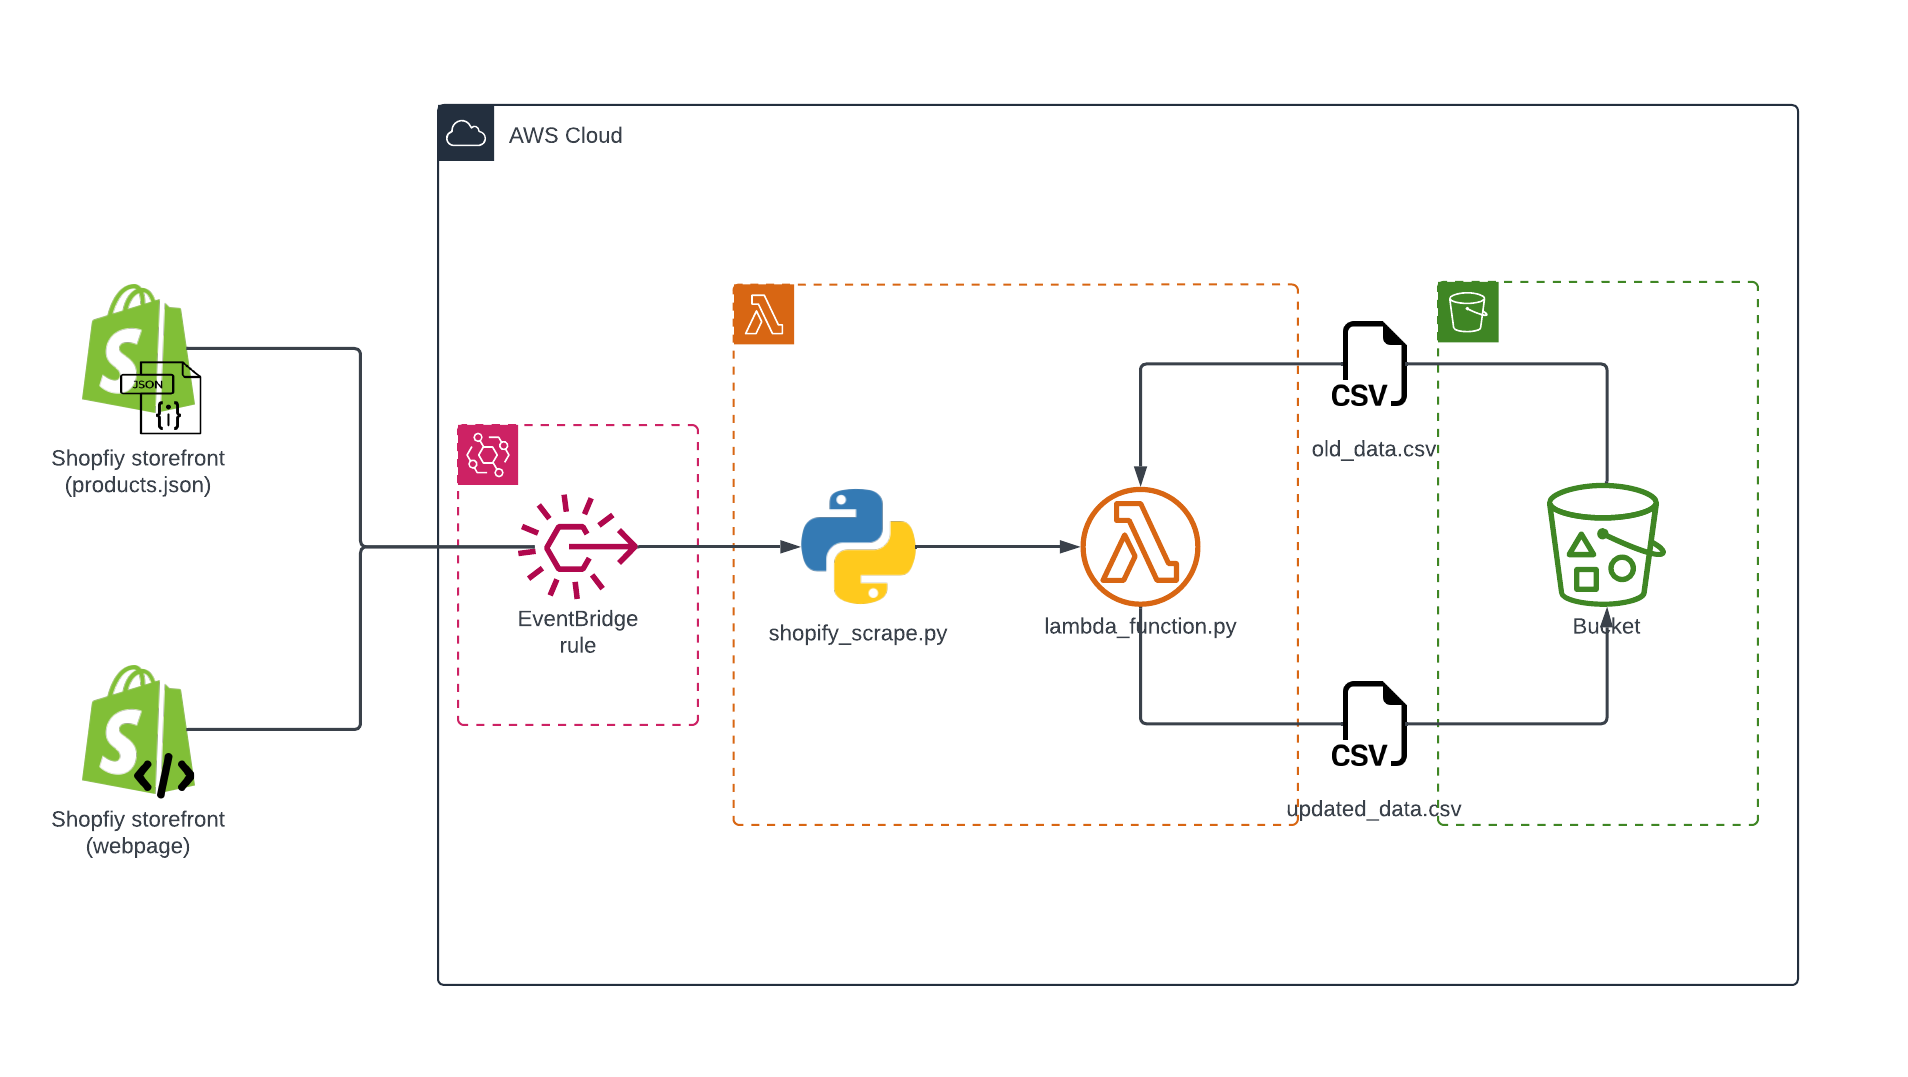
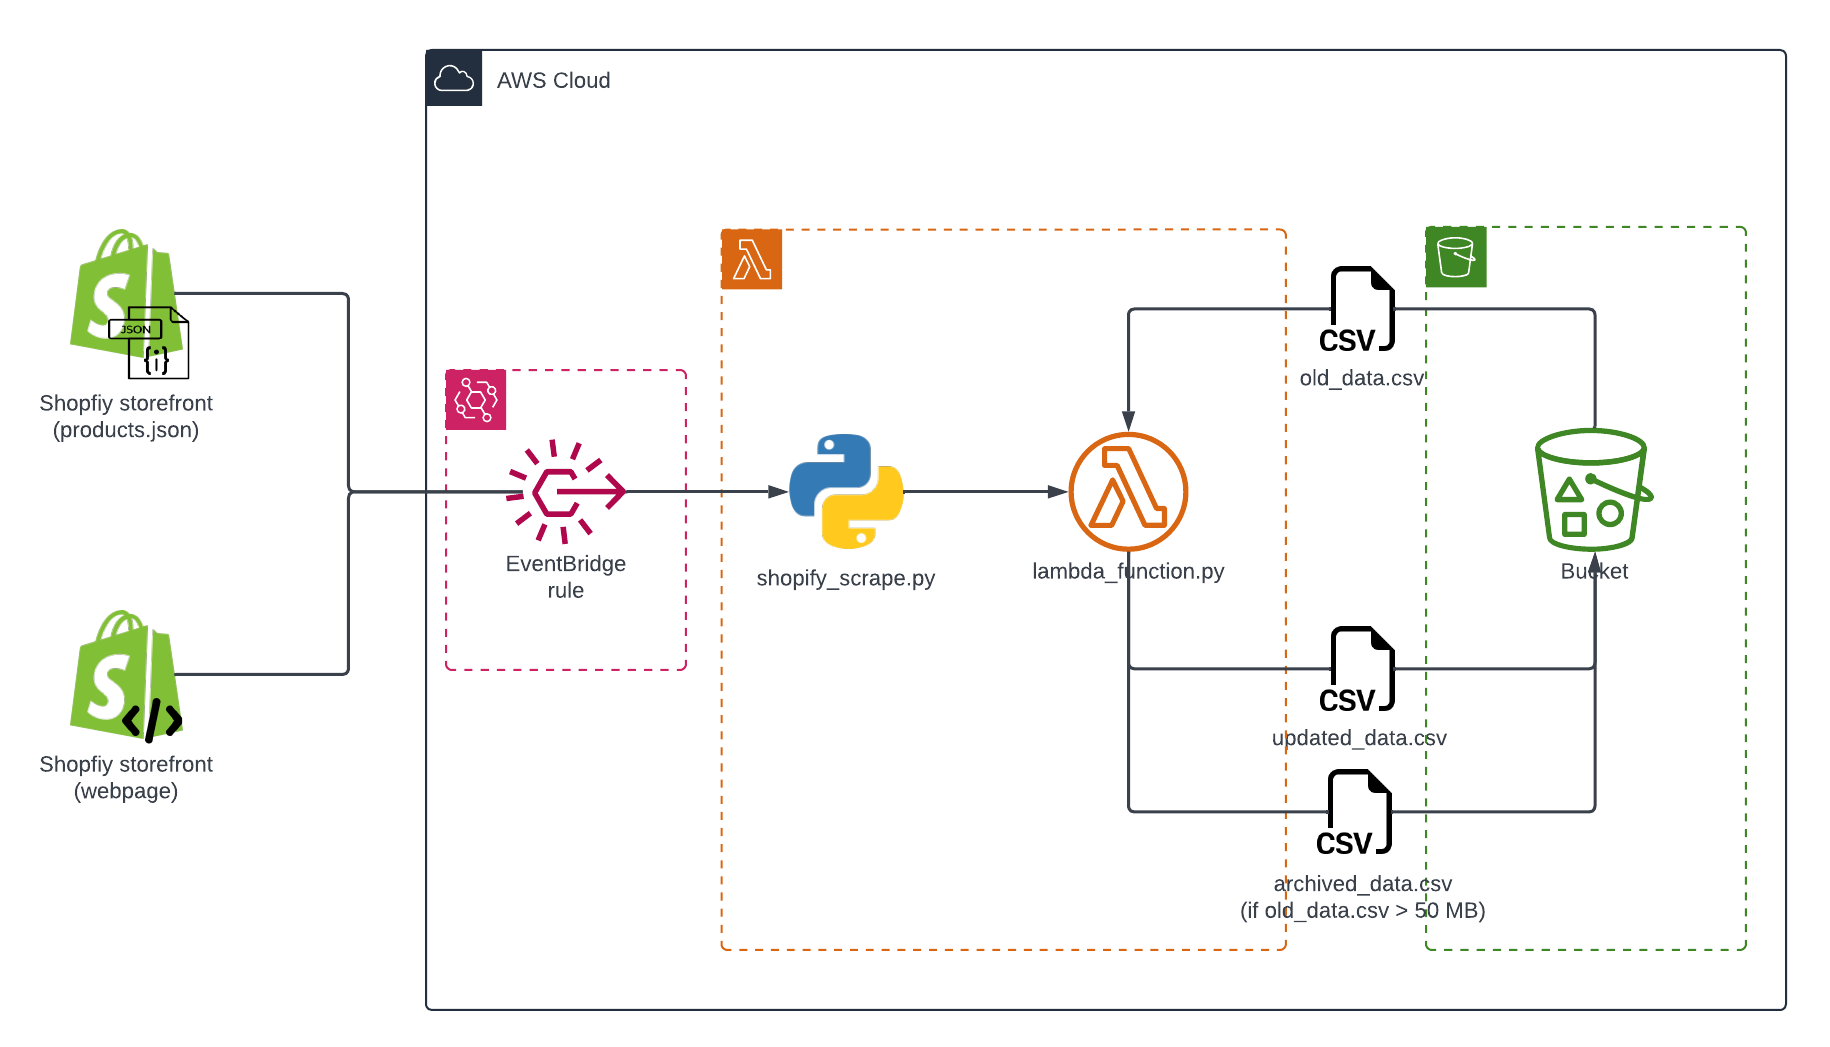
added auto-archiving logic

diff --git a/src/lambda_function.py b/src/lambda_function.py
@@ -25,13 +25,34 @@ def lambda_handler(event, context):
         aws_secret_access_key=access_secret_key,
         config=Config(signature_version='s3v4')
     )
-
+    
     old_csv = s3_client.get_object(Bucket=bucket_name, Key=s3_file_name)
     old_csv_data = old_csv['Body'].read().decode('utf-8')
-    
     old_df = pd.read_csv(StringIO(old_csv_data))
     
-    combined_df = pd.concat([old_df, new_df], ignore_index=True)
+    size_check = old_csv['ResponseMetadata']['HTTPHeaders']['content-length']
     
-    new_csv = combined_df.to_csv(index=False)
-    s3_client.put_object(Bucket=bucket_name, Key=s3_file_name, Body= new_csv)
+    # Checks if file is over 50 MB
+    if int(size_check) >= 52428800:
+        bucket = s3_client.list_objects(Bucket=bucket_name)
+        names = [bucket['Contents'][index]['Key'] for index, _ in enumerate(bucket['Contents'])]
+        names_list = [name[:-4] for name in names]
+        base_file_name = s3_file_name[:-4]
+        
+        new_file_name = None
+        index = 1
+        while base_file_name + str(index) in names_list:
+            index += 1
+        else:
+            new_file_name = base_file_name + str(index) + '.csv'
+        
+        archived_csv = old_df.to_csv(index=False)
+        s3_client.put_object(Bucket=bucket_name, Key=new_file_name, Body=archived_csv)
+        
+        new_csv = new_df.to_csv(index=False)
+        s3_client.put_object(Bucket=bucket_name, Key=s3_file_name, Body= new_csv)
+    else:
+        combined_df = pd.concat([old_df, new_df], ignore_index=True)
+        new_csv = combined_df.to_csv(index=False)
+        s3_client.put_object(Bucket=bucket_name, Key=s3_file_name, Body= new_csv)
+    

diff --git a/src/shopify_scrape.py b/src/shopify_scrape.py
@@ -27,7 +27,7 @@ def get_product_info(json_url, base_url):
     tags = [item['tags'] for item in products]
     variants = [item['variants'] for item in products]
     
-    eastern = timezone(timedelta(hours=-5))
+    eastern = timezone(timedelta(hours=-4))
     now = [datetime.now(tz=eastern).replace(microsecond=0).isoformat()]
     data_pull_datetime = now * len(ids)
     

diff --git a/README.md b/README.md
@@ -9,6 +9,7 @@ The repository contains an ongoing project to collect data from [Ariana Grande's
 1. Amazon Eventbridge rules trigger AWS Lambda every five minutes, invoking [`shopify_scrape.py`](.src/shopify_scrape.py).
 2. `shopify_scrape.py` pulls raw data both from the storefront and from the public-facing `products.json` file, which is used for every Shopify storefront. The code then formats the data before passing it to [`lambda_function.py`](./src/lambda_function.py).
 3. `lambda_function.py` fetches an existing CSV file out of a connected S3 bucket. The Lambda appends the new data to the CSV file before putting it back in the bucket, replacing the original.
+4. If the main CSV file becomes larger than 50 MB, the Lambda changes the name of the file and archives it in the same S3 bucket. It then creates a new CSV file for data to be appended to.
 
 ## Directory
 * **[data](./data)**: contains all webscraping data *(currently empty until data collection is complete)*
